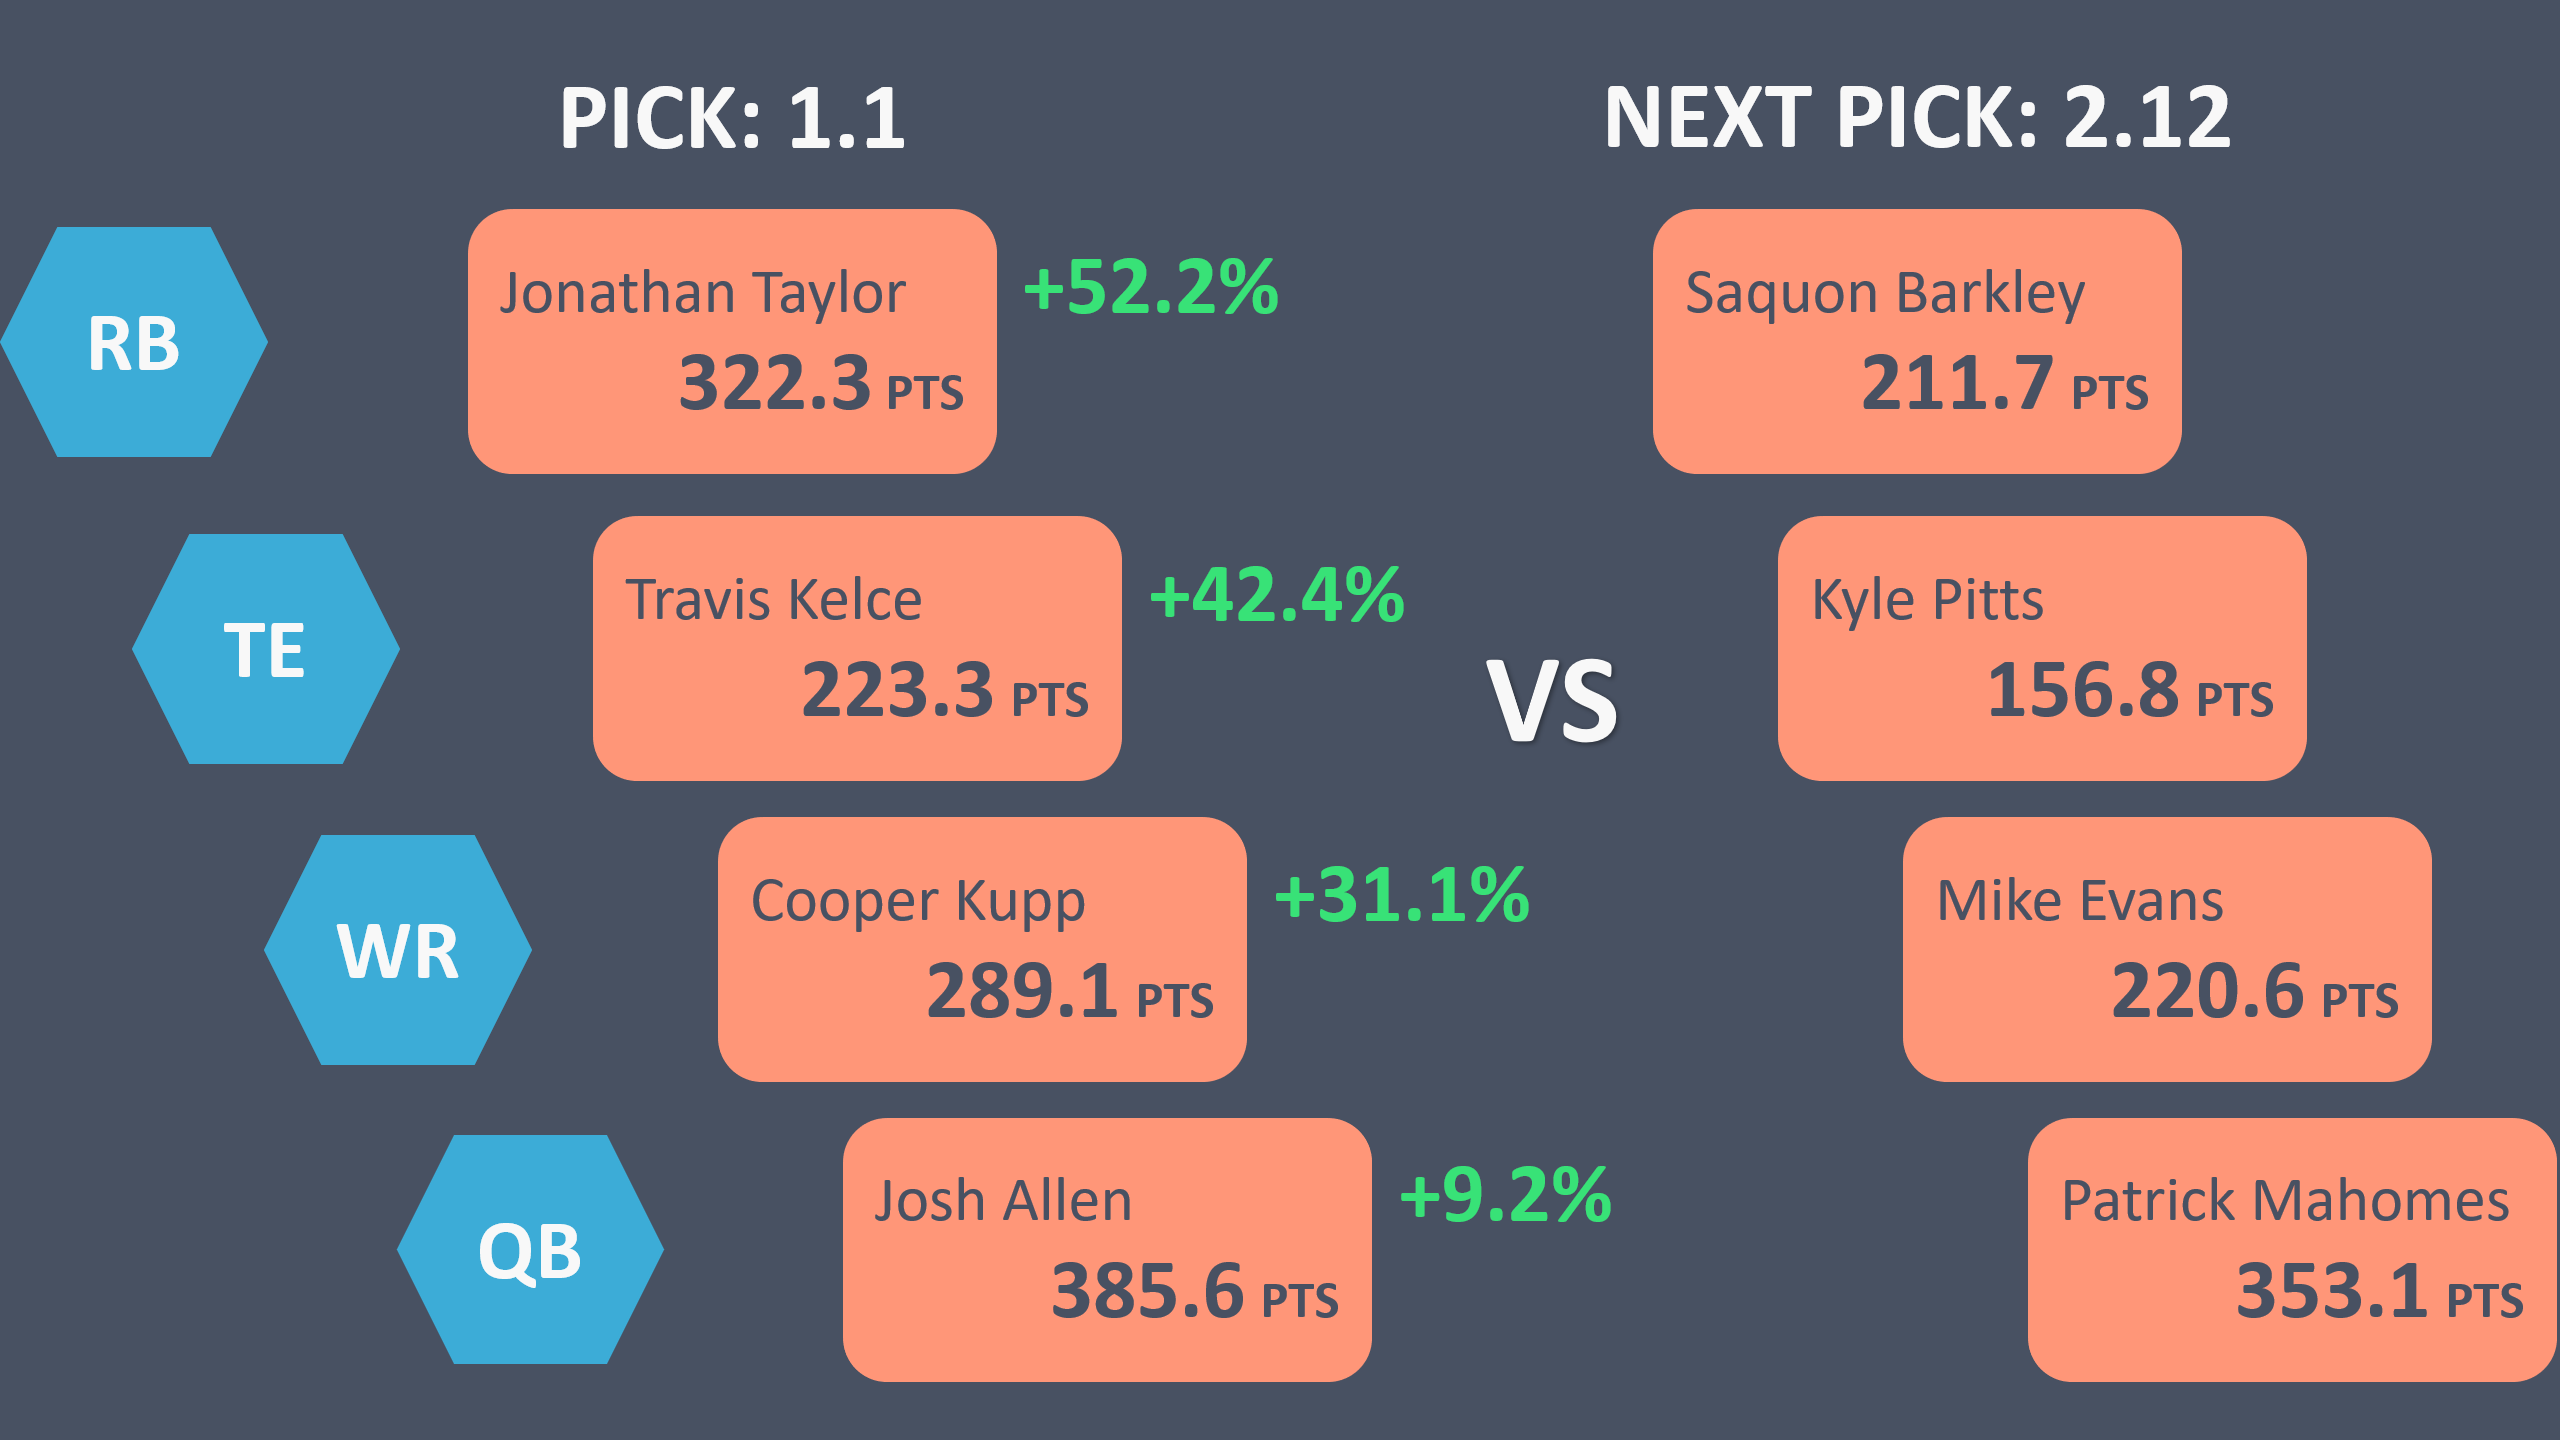
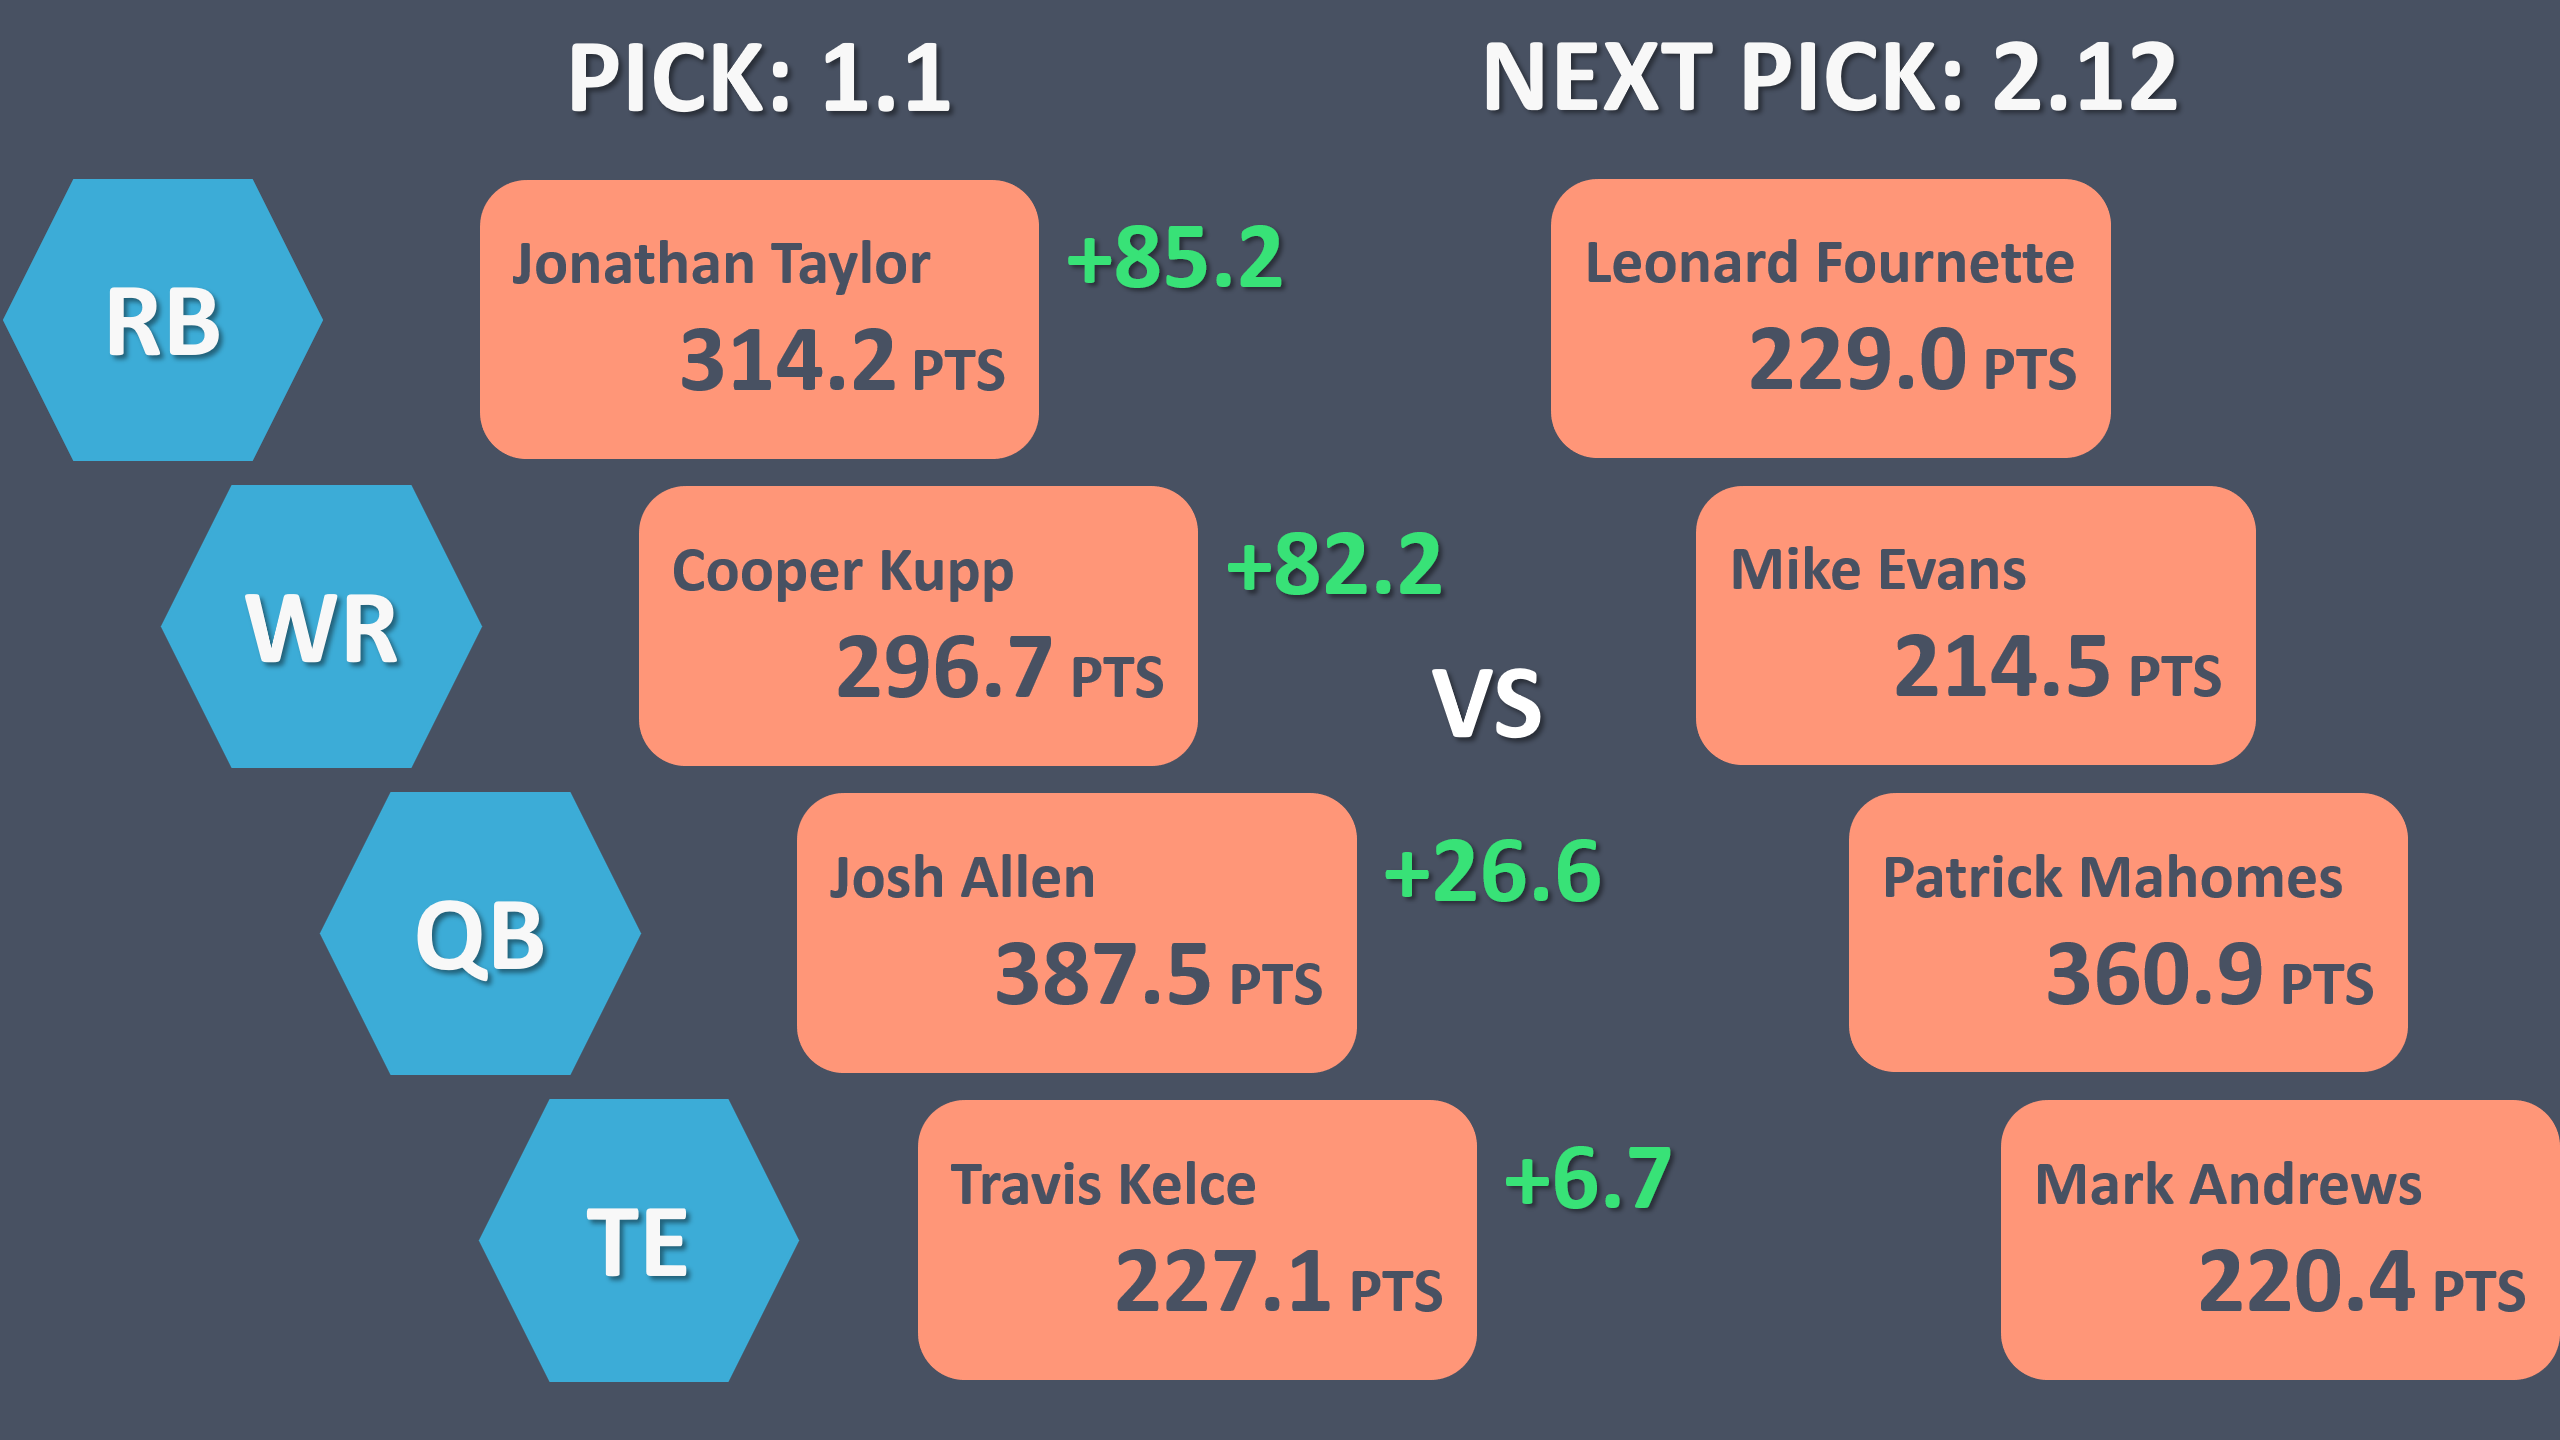
Removed the gap pct column

Changed region(s): [[0.0, 0.0312, 0.6562, 0.9688], [0.5625, 0.0312, 1.0, 0.9688], [0.5625, 0.4375, 0.625, 0.5312]]

diff --git a/flaskfantasy/templates/draft.html b/flaskfantasy/templates/draft.html
@@ -10,7 +10,7 @@
                         <div class="card-body bg-light pb-2">
                             <div class="card-text">
                                 <p>
-                                    <strong>Rankings</strong> are based on the <strong>Fantasy Points Gap %</strong> between a player and their projected positional replacement of the following round, and their level of <strong>Urgency</strong>, which represents the likelihood a player will be selected before your next pick. Urgency is determined by the following rules:
+                                    <strong>Rankings</strong> are based on the <strong>Fantasy Points Gap</strong> between a player and their projected positional replacement of the following round, and their level of <strong>Urgency</strong>, which represents the likelihood a player will be selected before your next pick. Urgency is determined by the following rules:
                                 </p>
                                 <ul>
                                     <li><strong>High</strong> if the player is projected to be selected before your next pick</li>
@@ -161,10 +161,10 @@
                 'info': false,
                 'data': draftdata,
                 'rowCallback': function ( row, data ) {
-                    if ( data.gap_pct > 0 ) {
-                        $('td:eq(6)', row).css('color', '#00C248');}
-                    else if ( data.gap_pct < 0 ) {
-                        $('td:eq(6)', row).css('color', '#FF2C00');}
+                    if ( data.gap_pts > 0 ) {
+                        $('td:eq(5)', row).css('color', '#00C248');}
+                    else if ( data.gap_pts < 0 ) {
+                        $('td:eq(5)', row).css('color', '#FF2C00');}
                 },
                 'columns': [
                     {defaultContent: '<div class="d-flex justify-content-center"><button class="btn btn-pick"><i class="bi bi-plus-circle-fill"></i></button></div>'},
@@ -173,7 +173,6 @@
                     {data: 'position'},
                     {data: 'fantasy_points'},
                     {data: 'gap_pts'},
-                    {data: 'gap_pct'},
                     {data: 'adp'},
                     {data: 
                         {_: 'urgency.display',
@@ -183,8 +182,8 @@
                 ],
                 'columnDefs': [
                     { orderable: false, targets: 0 },
-                    { className: 'fw-bold', targets: [6] },
-                    { render: DataTable.render.number(',', '.', '1'), targets: [4, 5, 6, 7]}
+                    { className: 'fw-bold', targets: [5] },
+                    { render: DataTable.render.number(',', '.', '1'), targets: [4, 5, 6]}
                 ],
                 'order': [[ 1, 'asc' ]]
                 });

diff --git a/flaskfantasy/routes.py b/flaskfantasy/routes.py
@@ -145,13 +145,12 @@ class DraftState:
 
 
 class NflPlayer:
-    def __init__(self, player, position, adp, fantasy_points, gap_pts=None, gap_pct=None, urgency=None, pick=None, team=None, rank=None):
+    def __init__(self, player, position, adp, fantasy_points, gap_pts=None, urgency=None, pick=None, team=None, rank=None):
         self.player = player
         self.position = position
         self.adp = adp
         self.fantasy_points = fantasy_points
         self.gap_pts = gap_pts
-        self.gap_pct = gap_pct
         self.urgency = urgency
         self.rank = rank
         
@@ -161,7 +160,7 @@ class NflPlayer:
     def __eq__(self, other):
         if (isinstance(other, NflPlayer)):
             return self.player == other.player and self.position == other.position and self.adp == other.adp and self.fantasy_points == other.fantasy_points \
-            and self.gap_pts == other.gap_pts and self.gap_pct == other.gap_pct and self.urgency == other.urgency
+            and self.gap_pts == other.gap_pts and self.urgency == other.urgency
         return False
 
     def calc_urgency_adp(self, counter, picks_until_next, free_agents):
@@ -184,8 +183,7 @@ class NflPlayer:
 
     def calc_gap(self, replacements):
         replacement = next(r for r in replacements if r.position == self.position)
-        self.gap_pts = self.fantasy_points - replacement.fantasy_points
-        self.gap_pct = (self.fantasy_points - replacement.fantasy_points) / replacement.fantasy_points * 100 if replacement.fantasy_points > 0 else 9999.9
+        self.gap_pts = round(self.fantasy_points - replacement.fantasy_points, 1)
         return self
 
     def calc_rank(self, free_agents):
@@ -333,7 +331,7 @@ def draft():
         keepers = df_keepers.to_dict('records')
         session['state'].assign_keepers(keepers)
 
-    draft_head = ['', 'Rk', 'Player', 'Pos', 'FPts', 'Gap', 'Gap %', 'ADP', 'Urgency']
+    draft_head = ['', 'Rk', 'Player', 'Pos', 'FPts', 'Gap', 'ADP', 'Urgency']
     repl_head = ['Player', 'Pos', 'FPts', 'ADP']
     team_head = ['Pos', 'Player']
 
@@ -367,7 +365,7 @@ def draft_data():
             replacements.append(replacement) 
         free_agents = [p.calc_urgency_adp(counter, picks_until_next, free_agents).calc_gap(replacements) for p in free_agents]
    
-    free_agents.sort(key=lambda x: (x.urgency['urgency'], -x.gap_pct, x.adp))
+    free_agents.sort(key=lambda x: (x.urgency['urgency'], -x.gap_pts, x.adp))
     free_agents = [p.calc_rank(free_agents).__dict__ for p in free_agents]
 
     replacements = [r.__dict__ for r in replacements]
